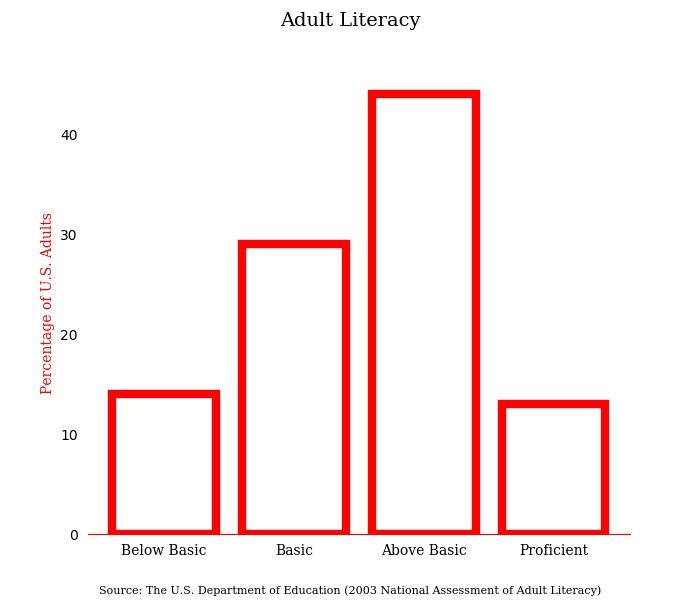
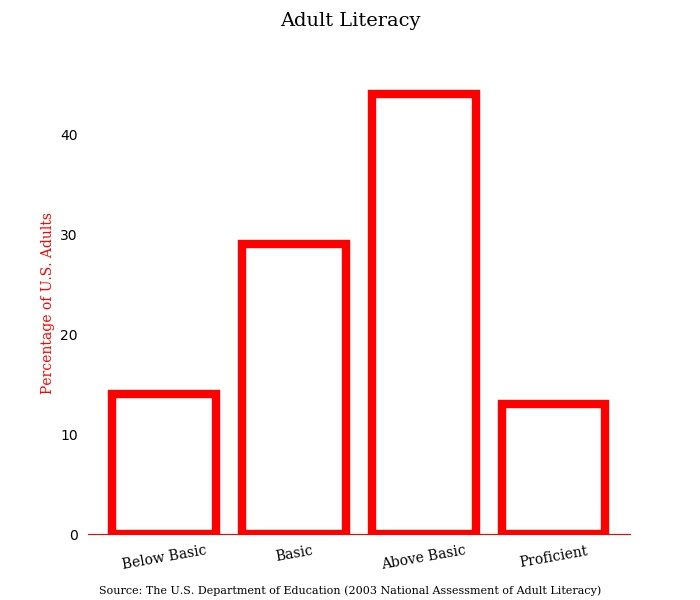
1.34

diff --git a/1.34.py b/1.34.py
@@ -6,33 +6,34 @@ import pathlib
 
 #NOTE Plot Info Configuration
 font     = 'Serif'
-title    = 'Adult Literacy'
-source   = ('Source: The U.S. Department of Education'
-            ' (2003 National Assessment of Adult Literacy)')
-ylabel   = 'Percentage of U.S. Adults'
+title    = 'Is Plagarism a Significant Problem'
+source   = ('Source: "Techincal Review of Plagarism Software" '
+            '(University of Luton)')
+ylabel   = 'Faculty Responses'
 filename = pathlib.Path(__file__).with_suffix('.jpg')
 
 
 #NOTE Data Configuration
-data       = [14, 29, 44, 13]
-categories = ['Below Basic', 'Basic', 'Above Basic', 'Proficient']
+data       = [5, 48, 90, 140, 39]
+categories = ['Strongly Disagree', 'Disagree', 'Not Sure', 'Agree', 
+        'Strongly Agree']
 positions  = np.arange(len(categories))
 
 
 # NOTE Color Configuration
-background = 'white'
-spines     = 'white'
-special    = 'red' # Bottom and left spines
+background = '#111111'
+spines     = '#222222'
+special    = spines # Bottom and left spines
 # --- text colors
-bold       = 'black'
-trim       = 'black'
+bold       = 'white'
+trim       = '#777777'
 # --- bar colors
-bars       = background
-edges      = 'red'
-width      = 6
+bars       = 'teal'
+edges      = 'teal'
+width      = 1
 # --- grid colors
-grid       = 'white'
-alpha      = 0.1
+grid       = '#111111'
+alpha      = 0.0
 
 
 #NOTE Geometry Configuration
@@ -50,7 +51,7 @@ plt.bar(positions, data, align='center', color=bars,
 plt.xticks(positions, categories, fontsize=10, fontname=font, 
         rotation=x_rotation, color=bold)
 plt.ylabel(ylabel, fontsize=10, fontname=font, 
-        color='red')
+        color=bold)
 plt.yticks(color=trim)
 plt.suptitle(title, fontsize=14, fontname=font, color=bold)
 #plt.title(source, fontsize=8, fontname=font, color=trim)
@@ -63,9 +64,9 @@ ax = plt.axes()
 ax.patch.set_facecolor(background)
 ax.figure.set_facecolor(background)
 ax.set_axisbelow(True)
-for position in ['top', 'right', 'left']:
+for position in ['top', 'right']:
     ax.spines[position].set_color(spines)
-for position in ['bottom']:
+for position in ['bottom', 'left']:
     ax.spines[position].set_color(special)
 ax.tick_params(top=False, bottom=False, left=y_ticks, right=x_ticks, 
         labelleft=True, labelbottom=True)
